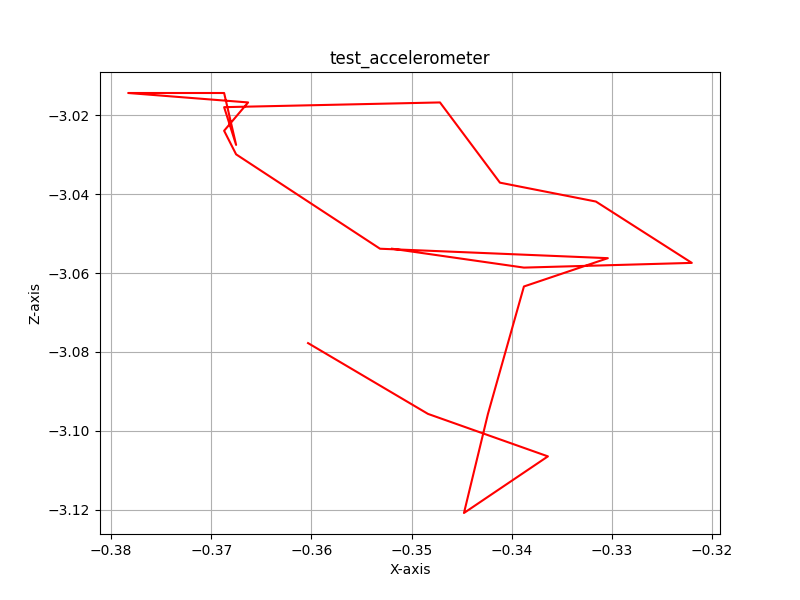
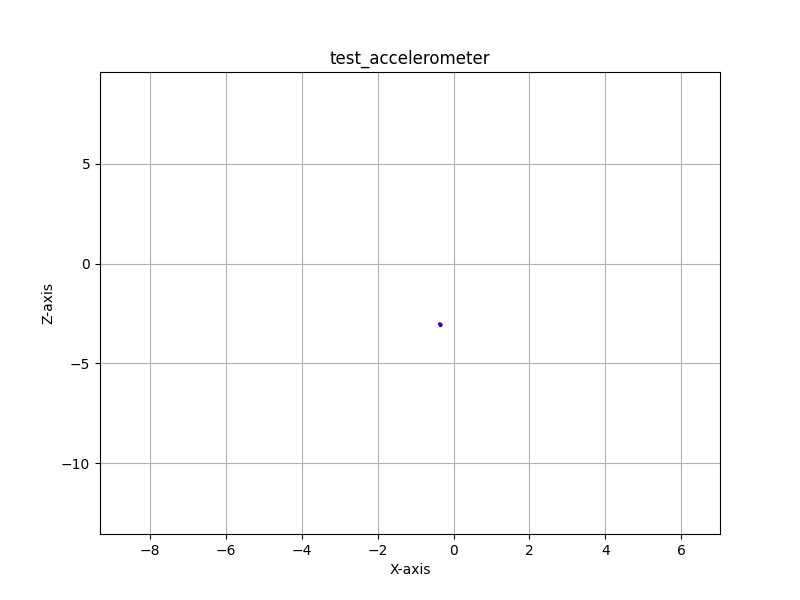
Color Transition and Scaling
Adds a color gradient to the line alongside a min and max for both axes

diff --git a/accelerometer_plotter.py b/accelerometer_plotter.py
@@ -1,5 +1,6 @@
 import numpy as np
 import matplotlib.pyplot as plt
+from matplotlib.colors import LinearSegmentedColormap
 import os
 
 #Read the data of a file and format the time, x and z columns into numpy arrays
@@ -26,12 +27,25 @@ def readData(filename):
 #Plot the X and Z axis data onto a scatter plot and save the plot as a png
 def plotData(x, z, trial_name):
     plt.figure(figsize=(8, 6))
+
+    #colormap of red->purple->blue
+    colors = [(1, 0, 0), (0.5, 0, 0.5), (0, 0, 1)]
+    cmap = LinearSegmentedColormap.from_list("RedPurpleBlue", colors, N=len(x))
+    
+    #color values
+    colorlist = [cmap(i / (len(x) - 1)) for i in range(len(x) - 1)]
+
+    #ploting segments with color values
+    for i in range(len(x) - 1):
+        plt.plot(x[i:i+2], z[i:i+2], color=colorlist[i], alpha=1)
+
     #plt.scatter(x, z, c='blue', alpha=0.7, edgecolors='k', label="Data Points")
-    plt.plot(x, z, c='red', alpha=1, label="Line Connection")
+    #plt.plot(x, z, c="red", alpha=1, label="Line Connection")
     plt.title(f"{trial_name}")
     plt.xlabel("X-axis")
     plt.ylabel("Z-axis")
-    #plt.legend()
+    plt.xlim(-9.321824073791504, 7.024587631225586)
+    plt.ylim(-13.535619735717773, 9.587580680847168)
     plt.grid(True)
     plt.savefig(trial_name + ".png")
     plt.close()
@@ -41,7 +55,7 @@ def plotData(x, z, trial_name):
 
 def main():
     #Change the following line to change the directory this script is worked in
-    directory = "C://Users//conbo//Documents//GitHub//MARL_accelerometer_script"
+    directory = "E://MARL Project Repo//MARL_accelerometer_script"
 
     os.chdir(directory)
     for file in os.listdir():
